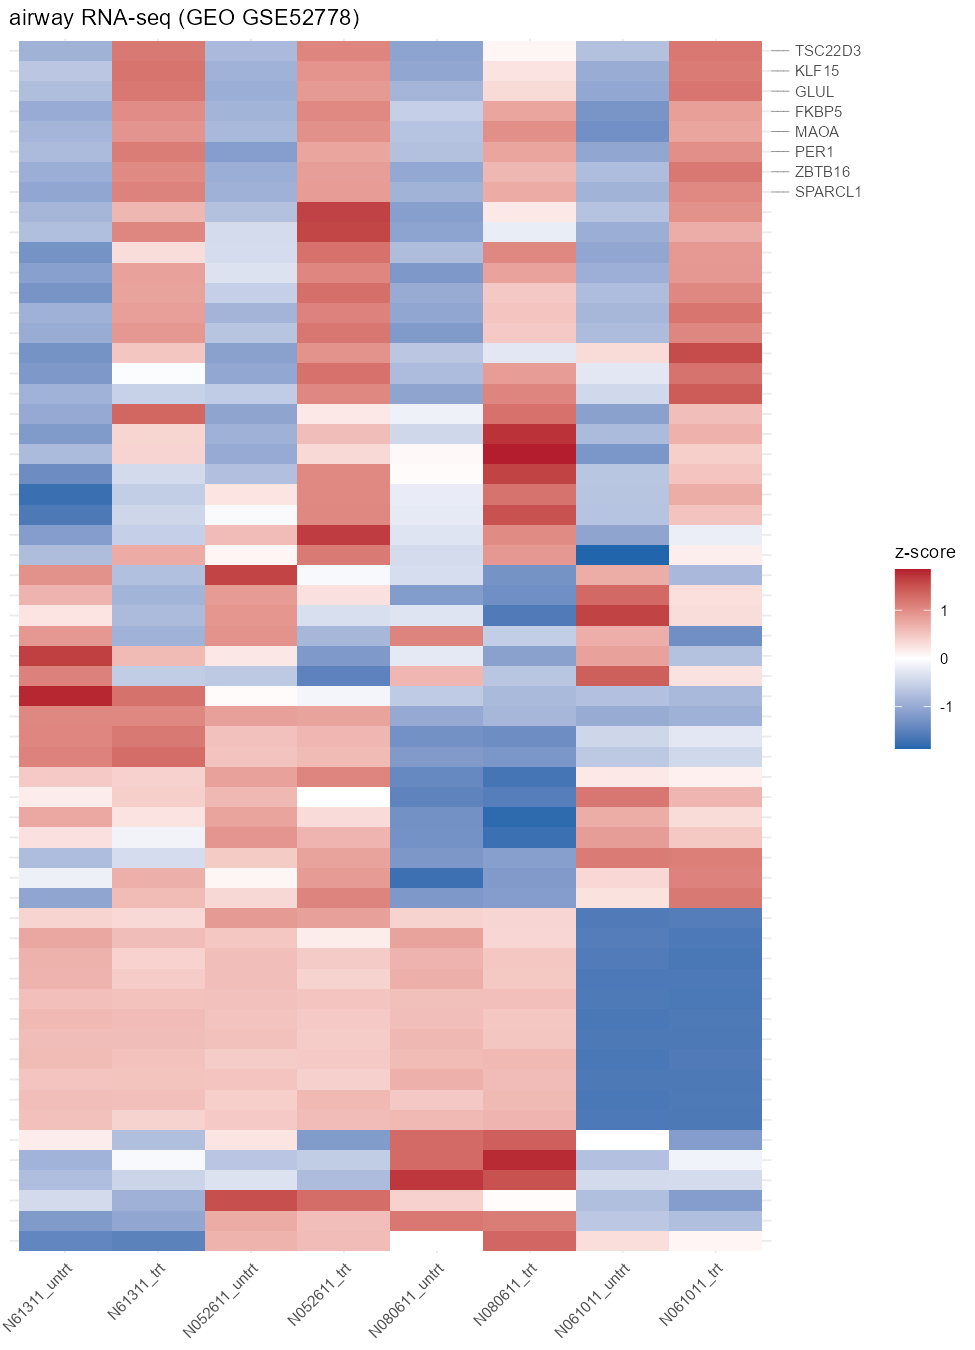
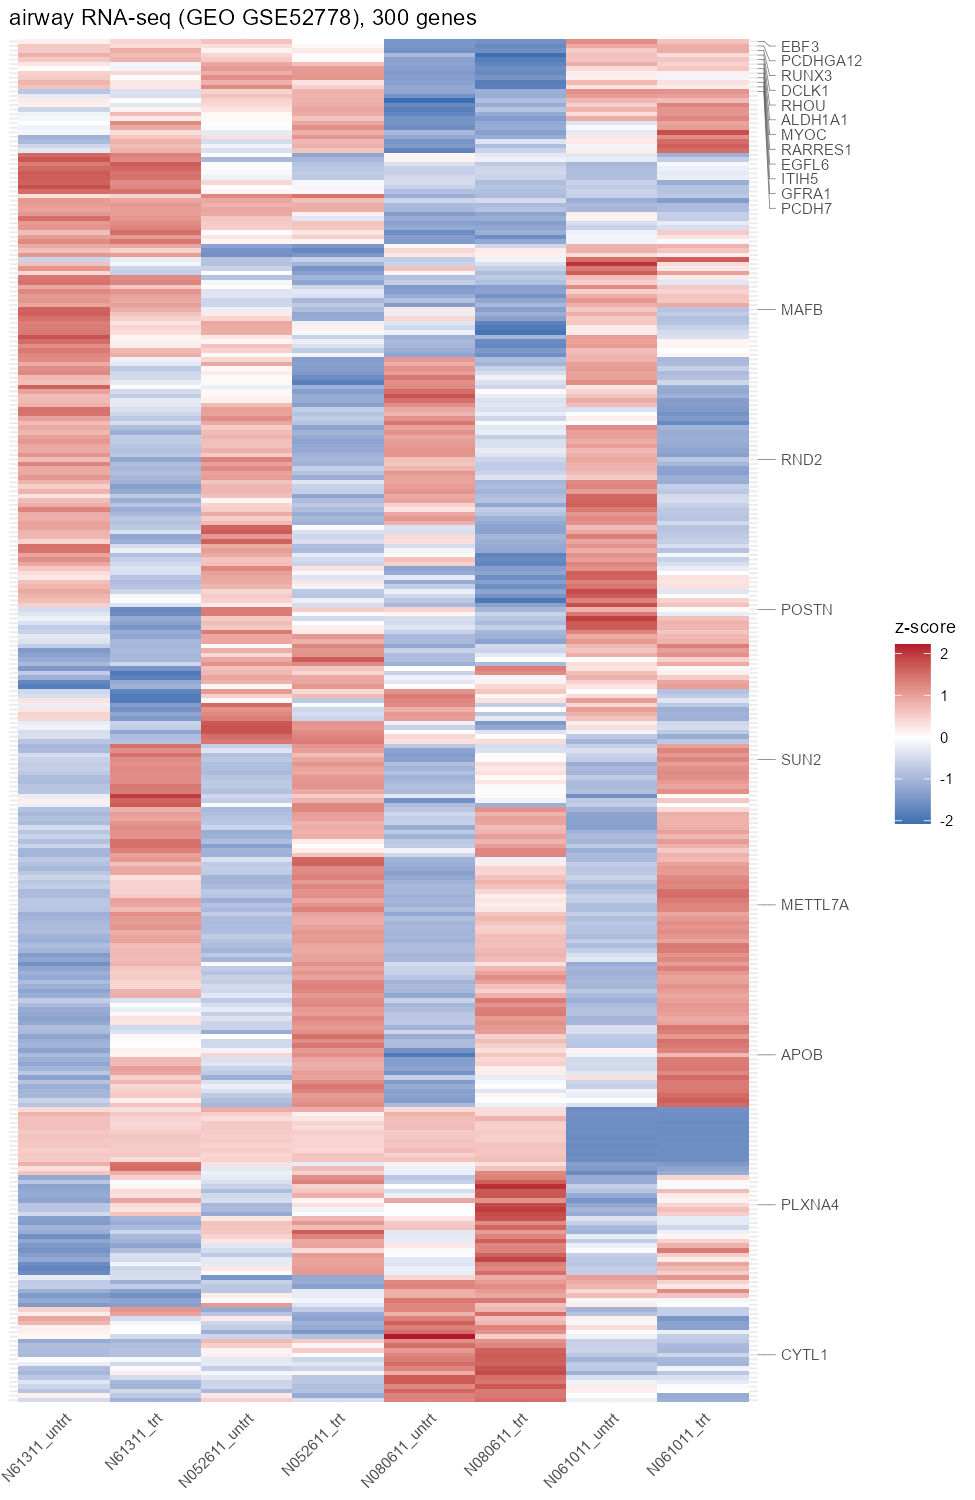
Scale the RNA-seq heatmap to 300 genes and label 20 of them
- hundreds of rows make the label placement visible: the 12 genes from
  the top response cluster get staggered labels with fanning leader
  lines, 8 scattered genes get long horizontal leaders
- facet figure also uses the 300 genes, split into up/down panels
- README + both vignettes + inst/examples/09 updated (tall 6.5x10 and
  7x10 figures)

diff --git a/README.md b/README.md
@@ -190,7 +190,15 @@ angle = 45, hjust = 1, vjust = 1
 This is the geometry of `ComplexHeatmap::anno_mark()`: hide the full
 axis and label only the rows you care about. Duplicate the axis with
 `dup_axis()`, switch the main guide off with `guide_none()`, and put
-`guide_axis_smart()` on the copy:
+`guide_axis_smart()` on the copy.
+
+The data is real: the
+[`airway`](https://bioconductor.org/packages/airway) package holds an
+RNA-seq experiment on human airway smooth muscle cells (GEO
+[GSE52778](https://www.ncbi.nlm.nih.gov/geo/query/acc.cgi?acc=GSE52778)),
+four cell lines with and without dexamethasone. The heatmap shows 300
+genes and labels 20 of them, so the way leader lines and the vertical
+spacing of the labels are allocated is clearly visible:
 
 ``` r
 ## real RNA-seq data from GEO: airway (GSE52778), 4 cell lines +/- dexamethasone
@@ -201,12 +209,18 @@ counts <- SummarizedExperiment::assay(airway, "counts")
 cpm <- t(t(counts) / colSums(counts)) * 1e6
 logcpm <- log2(cpm[rowSums(cpm > 1) >= 4, ] + 1)
 
+## drop duplicated gene symbols so that every label is unique
+name_map <- SummarizedExperiment::rowData(airway)$symbol
+name_map <- ifelse(is.na(name_map) | name_map == "", rownames(airway), name_map)
+names(name_map) <- rownames(airway)
+dup_ids <- names(name_map)[duplicated(name_map) | duplicated(name_map, fromLast = TRUE)]
+logcpm <- logcpm[!rownames(logcpm) %in% dup_ids, ]
+
+n_gene <- 300
 vars <- apply(logcpm, 1, var)
-z <- t(scale(t(logcpm[names(sort(vars, decreasing = TRUE))[1:60], ])))
+z <- t(scale(t(logcpm[names(sort(vars, decreasing = TRUE))[seq_len(n_gene)], ])))
 ord <- hclust(dist(z), method = "ward.D2")$order
-sym <- SummarizedExperiment::rowData(airway)$symbol[match(rownames(z), rownames(airway))]
-gene_name <- ifelse(is.na(sym) | sym == "", rownames(z), sym)
-names(gene_name) <- rownames(z)
+gene_name <- name_map[rownames(z)]
 
 cd <- as.data.frame(SummarizedExperiment::colData(airway))
 delta <- rowMeans(z[, cd$dex == "trt"]) - rowMeans(z[, cd$dex == "untrt"])
@@ -222,39 +236,37 @@ df_gene <- data.frame(
   z = as.vector(z[ord, ])
 )
 
+## 12 neighbouring genes + 8 scattered ones
+mark <- c(
+  gene_name[ord][1:12],
+  gene_name[ord][round(seq(60, n_gene - 10, length.out = 8))]
+)
+
 ggplot(df_gene, aes(x = sample, y = gene, fill = z)) +
   geom_tile() +
   scale_y_discrete(
     guide = guide_none(),
     sec.axis = dup_axis(
-      guide = guide_axis_smart(which = gene_name[ord][1:8])
+      guide = guide_axis_smart(which = mark)
     )
   ) +
   scale_fill_gradient2(low = "#2166ac", mid = "white", high = "#b2182b",
                        midpoint = 0, name = "z-score") +
-  labs(x = NULL, y = NULL, title = "airway RNA-seq (GEO GSE52778)") +
+  labs(x = NULL, y = NULL, title = "airway RNA-seq (GEO GSE52778), 300 genes") +
   theme_minimal(base_size = 9) +
   theme(axis.text.x = element_text(angle = 45, hjust = 1))
 ```
 
 <div class="figure">
 
-<img src="man/figures/README-anno-mark-1.png" alt="Real RNA-seq data (GEO GSE52778): tall heatmap, only the 8 glucocorticoid-responsive genes are labelled on a duplicated right axis" width="100%" />
+<img src="man/figures/README-anno-mark-1.png" alt="Real RNA-seq data (GEO GSE52778): a tall 300-gene heatmap, only 20 genes are labelled on a duplicated right axis" width="100%" />
 <p class="caption">
 
-Real RNA-seq data (GEO GSE52778): tall heatmap, only the 8
-glucocorticoid-responsive genes are labelled on a duplicated right axis
+Real RNA-seq data (GEO GSE52778): a tall 300-gene heatmap, only 20 genes
+are labelled on a duplicated right axis
 </p>
 
 </div>
-
-Real data from GEO: the
-[`airway`](https://bioconductor.org/packages/airway) package holds an
-RNA-seq experiment on human airway smooth muscle cells (GEO
-[GSE52778](https://www.ncbi.nlm.nih.gov/geo/query/acc.cgi?acc=GSE52778)),
-four cell lines with and without dexamethasone. The eight genes labelled
-here are the glucocorticoid-responsive genes that cluster together at
-the top of the heatmap.
 
 Facets work as well, and every panel lays out its own labels: split the
 genes into an “up” and a “down” panel and label the four strongest
@@ -265,7 +277,7 @@ mark_by_set <- lapply(
   split(names(delta), gene_set),
   function(ids) ids[order(abs(delta[ids]), decreasing = TRUE)][1:4]
 )
-mark <- unlist(mark_by_set, use.names = FALSE)
+mark_facet <- unlist(mark_by_set, use.names = FALSE)
 
 ggplot(df_gene, aes(x = sample, y = gene, fill = z)) +
   geom_tile() +
@@ -273,12 +285,12 @@ ggplot(df_gene, aes(x = sample, y = gene, fill = z)) +
   scale_y_discrete(
     position = "right",
     guide = guide_axis_smart(
-      which = function(labels, positions) labels %in% gene_name[mark]
+      which = function(labels, positions) labels %in% gene_name[mark_facet]
     )
   ) +
   scale_fill_gradient2(low = "#2166ac", mid = "white", high = "#b2182b",
                        midpoint = 0, name = "z-score") +
-  labs(x = NULL, y = NULL, title = "facet by gene set") +
+  labs(x = NULL, y = NULL, title = "facet by gene set, 300 genes") +
   theme_minimal(base_size = 9) +
   theme(panel.grid = element_blank(),
         strip.placement = "outside",
